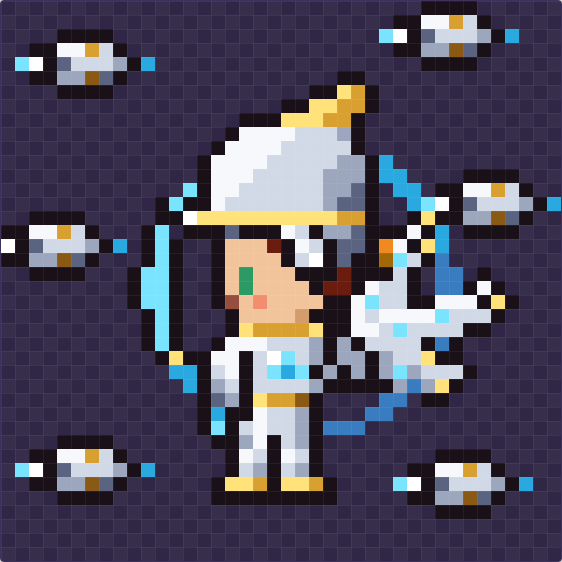
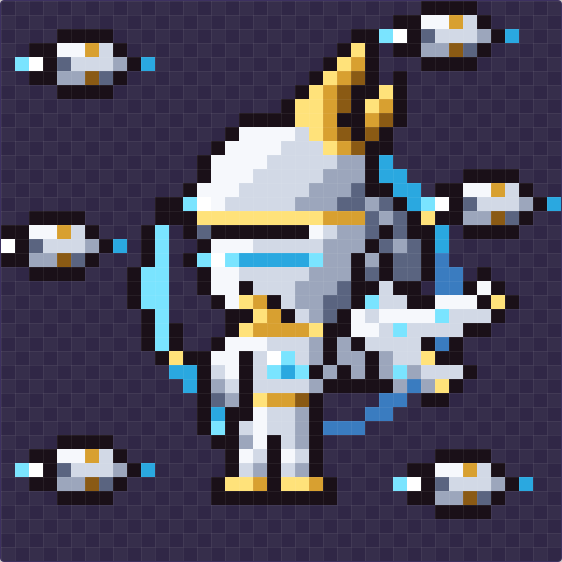
試しの絵の兜を作り直す（顔をおおう面・光る目のすじ・2枚の金のひれ・重なるしころ）
Claude-Session: https://claude.ai/code/session_01TUFd7hBfF9NNQ4kEakAJkw

Changed region(s): [[0.3025, 0.0302, 0.7865, 0.5747]]

diff --git a/assets-src/pixel-practice/r31-cosmo/yuri2_cosmo.py b/assets-src/pixel-practice/r31-cosmo/yuri2_cosmo.py
@@ -91,37 +91,41 @@ for y in range(32):
     for x, ch in enumerate(row):
         if ch == ".": continue
         put(OX+x, OY+y, ch)
-# 兜（2026-10-06 人間の指示「兜もつけよう」）。白い丸い鉢・金の額の帯・目の上のひさし・後ろへ流れる1枚のひれ・
-# 首の後ろを守るしころ。前（左）に環の飾り。髪は、ひさしの下の前髪と、しころの下の後ろ髪だけ見せる。
-# 記号: "_"=元の絵のまま、"."=消す、ほかは色。V字の角はつけない（CLAUDE.md 1-1）。
+# 兜（2026-10-06 人間の指示「兜もつけよう」「兜はもっとカッコよくしよう」）。
+# 白い鉢（前上に光の線）・前へとがる額の板・額の宝石・目の上の光る面頬のすじ・角ばった頬当て・
+# 後ろに3枚重なるしころ・後ろへ流れる2枚の金のひれ（長い刃と短い刃）。V字の角はつけない（CLAUDE.md 1-1）。
+# 記号: "_"=そのまま、ほかは色。上から3行は、頭より上（-3〜-1行目）。
 HELM = [
-    "____________AA__",   # 0  ひれの先
-    "__________AA56A_",   # 1
-    "________AA5566A_",   # 2
-    ".....AAA55566A..",   # 3  ひれの根もと
-    "....A11112223A..",   # 4
-    "...A111122222A..",   # 5
-    "..A11112222233A.",   # 6
-    "..A11122222333A.",   # 7
-    "..A11222222334A.",   # 8
-    "..A12222222344A.",   # 9
-    "..A55555555566A.",   # 10 額の帯
-    "..AA4AAA12A334A_",   # 11 ひさし・耳当て・しころ
-    "___A____A12A44A_",   # 12
-    "________A2vA4A__",   # 13 耳当ての環の飾り
-    "_________AAA____",   # 14
+    "_____________AA___",   # -3 ひれの先
+    "____________A5A___",   # -2
+    "___________A56A___",   # -1
+    "__________A567A_A_",   #  0
+    "_________A567AA5A_",   #  1 2枚目のひれ
+    "________A5567A56A_",   #  2
+    ".....AAAA556AA67A_",   #  3 ひれの根もと・鉢のてっぺん
+    "....A11112567A7A__",   #  4
+    "...A1111222567AA__",   #  5
+    "..A11112222233A___",   #  6
+    "..A11122222333A___",   #  7
+    ".A111222223334AA__",   #  8
+    "A8v1222223334434A_",   #  9 額の宝石
+    "AA555555555666434A",   # 10 金の帯・しころ1枚目
+    "_A4AAAAAAA12334A4A",   # 11 ひさしの下のかげ・しころ2枚目
+    "__A11122222333A434A",  # 12 面（顔をおおう板）
+    "_A8v899999833A3A44A",  # 13 目の高さの、光る横のすじ（前へとがる）
+    "__A1122222333A4A44A",  # 14
+    "__A11A2223334AA_AA_",  # 15 小さな息の穴
+    "___A156A23344A_____",  # 16 あご（金の筋）
+    "____AA56A234A______",  # 17 とがったあご当て
 ]
-for y, row in enumerate(HELM):
+# 顔も隠す（人間の指示「顔も隠れてもいいから」）
+# 兜の下の髪（頭の上半分）を先に消す。後ろの光の環などは残す
+for y in range(0, 18):
+    for x in range(16):
+        if G[OY+y][OX+x] in LET: put(OX+x, OY+y, ".")
+for j, row in enumerate(HELM):
     for x, ch in enumerate(row):
-        if ch == "_": continue
-        if ch == ".":
-            if G[OY+y][OX+x] in LET: put(OX+x, OY+y, ".")    # 元の絵（髪）だけ消す。後ろの光の環は残す
-        else:
-            put(OX+x, OY+y, ch)
-# 額の帯の前（左）に、小さな環の飾り
-for (x, y, c) in ((OX+1, OY+9, "A"), (OX+0, OY+10, "A"), (OX+1, OY+10, "v"), (OX+1, OY+11, "A"), (OX+2, OY+10, "5"), (OX+2, OY+9, "A")):
-    put(x, y, c)
-
+        if ch != "_": put(OX+x, OY+j-3, ch)
 used = sorted(set(ch for row in G for ch in row if ch != "."))
 out_pal = {k: pal[k] for k in used}
 open(os.path.join(HERE, "yuri2-cosmo.txt"), "w").write("\n".join("".join(r) for r in G) + "\n")

diff --git a/docs/decisions.md b/docs/decisions.md
@@ -1391,7 +1391,7 @@
 - 名前を「コスモリングライト」に変えた（IDは `legend-cosmo` のまま。セーブデータはそのまま使える）。説明（仮）に「光の環の鎧・6基の追尾砲台」を足した。数値は仮のまま。
 - **試しの絵**（`assets-src/pixel-practice/r31-cosmo/yuri2_cosmo.py` → `yuri2-cosmo.txt`/`pal-yuri2-cosmo.json`、40×40（人間の指示「36×36でも、足りなければ40×40でも」）、22色、エディタで食い違い0マス）: 2頭身のユーリ（左向き＝戦闘の向き。頭は `walk-2head/ユーリ.json` の left0）に、白と金の鎧・胸の環の核・光る籠手・金の額の輪と環の飾り・背の光の環（6つの金の節）・背から流れる3枚の羽の板・まわりに浮かぶ6基の追尾砲台（砲口は敵のいる左）。
 - **既存作のまねをしない（CLAUDE.md 1-1）**: 「〜みたいな」は雰囲気（白い鎧・翼・浮く砲台）の参考にとどめ、特定のロボットの形（V字の角・青い刃の翼が並ぶ形・赤青白の配色・顔の形）は使わない。名前の「リングライト」に合わせて、光の環を主役にした。
-- **兜**（人間の指示「兜もつけよう」）: 白い丸い鉢・金の額の帯・目の上のひさし・耳当て（環の飾り）・首の後ろのしころ・後ろへ流れる金のひれ1枚。前髪と後ろ髪が少し見える。V字の角はつけない。
+- **兜**（人間の指示「兜もつけよう」「兜はもっとカッコよくしよう」「顔も隠れてもいいから」）: 白い鉢（前上に光の線）・前へとがる額の板と額の宝石・顔をおおう面（目の高さに光る横のすじ、小さな息の穴、金の筋の入ったとがったあご当て）・後ろに重なるしころ・後ろへ流れる2枚の金のひれ。V字の角・顔の通気口・赤いあごなど、既存のロボットの顔の形は使わない。
 - ゲームにはまだ入れていない（試し）。
 
 ## 2026-10-06 町の木と木を近すぎないように
